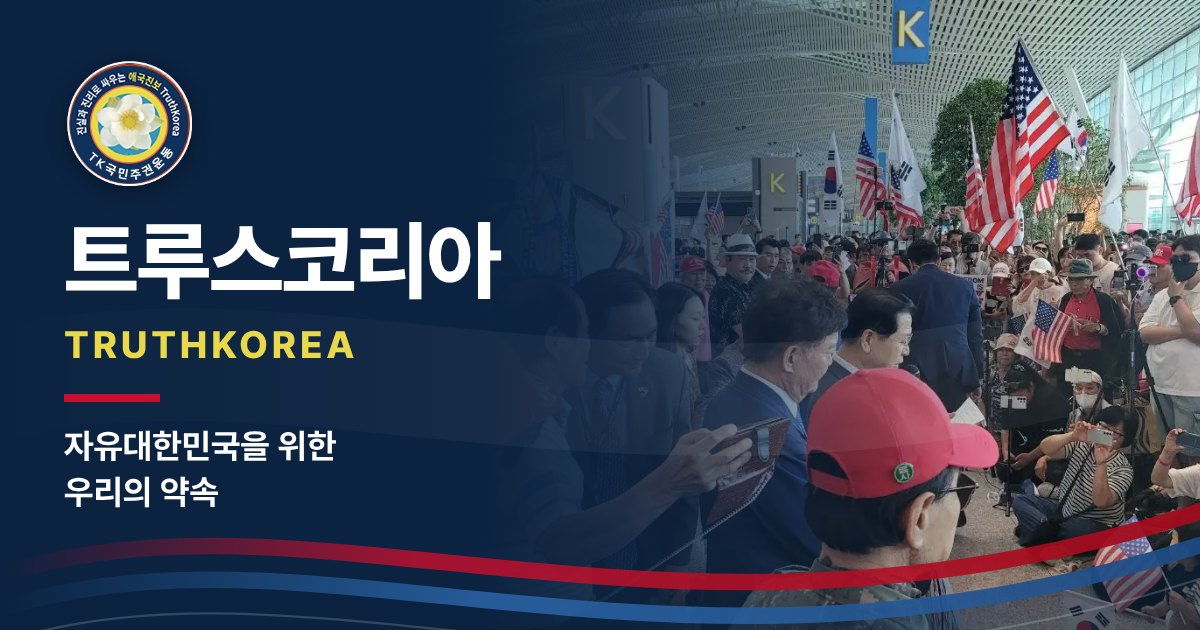
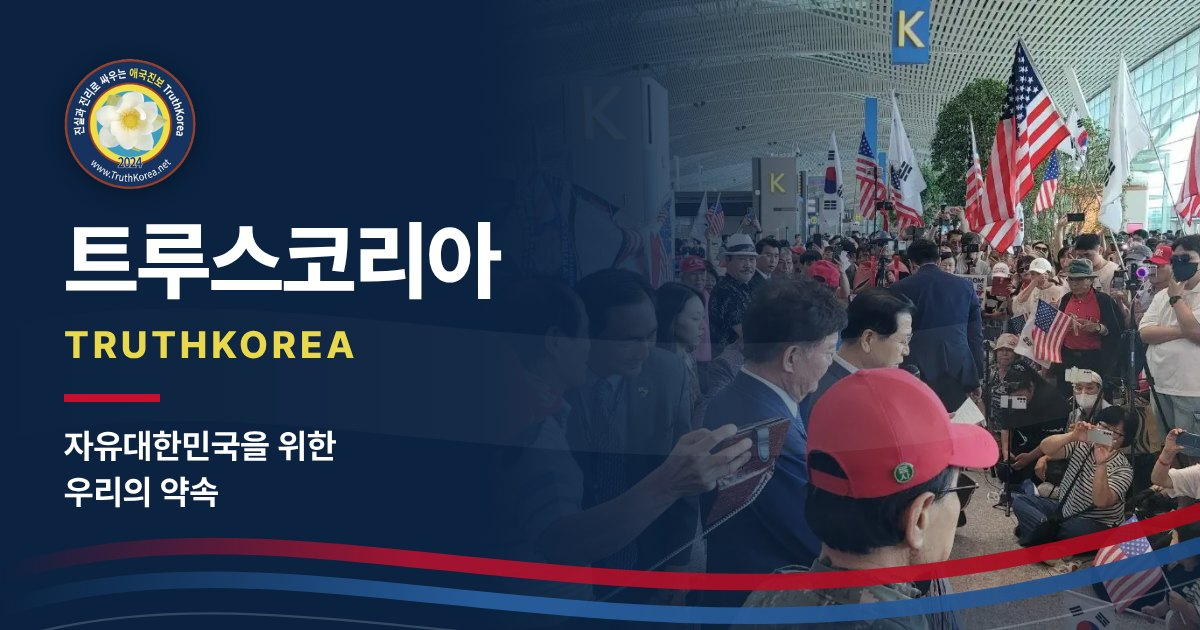
WIP: brand cleanup verification in progress
Claude-Session: https://claude.ai/code/session_01Lt8xdpggSnrnMYbTka5C8f

Changed region(s): [[0.0308, 0.0905, 0.185, 0.3016]]

diff --git a/assets/css/site.css b/assets/css/site.css
@@ -899,8 +899,9 @@ html:not(.js) .skel { display: none; }
 /* 처음 화면 머리말: 단체 영문 이름 (남색 위 밝은 글자) */
 .hero__eyebrow { margin: 0 0 6px; font-size: 1.0625rem; font-weight: 800; line-height: 1.3; letter-spacing: .14em; color: var(--on-navy-2); }
 .hero__lead { margin: 0 0 20px; font-size: var(--fs-body); line-height: 1.7; color: var(--on-navy-2); }
-/* 폰: 작은 빨강·파랑 막대는 사진 가장자리에서 슬라이드 점처럼 보여 숨기되, 자리는 남겨 표어가 사진의 밝은 부분에 걸리지 않게 합니다 */
-@media (max-width: 599.98px) { .hero__bar { visibility: hidden; } }
+/* 폰: 작은 빨강·파랑 막대는 사진 가장자리에서 슬라이드 점처럼 보여 빼고, 그 자리에 머리말(TRUTHKOREA)을 둡니다.
+   머리말이 막대 자리를 차지하므로 제목은 전처럼 사진의 밝은 부분에 걸리지 않습니다 */
+@media (max-width: 599.98px) { .hero__bar { display: none; } }
 .hero-tiles {
   list-style: none;
   margin: 0;

diff --git a/about.html b/about.html
@@ -85,7 +85,7 @@
   <div class="section section--paper vision-intro">
     <div class="container">
       <div class="intro-card" id="vision">
-        <img class="intro-card__emblem" src="assets/img/brand/emblem-200.webp" width="200" height="200" alt="트루스코리아 상징: 가운데 목련꽃 둘레에 ‘진실과 진리로 싸우는 애국진보 TruthKorea’라고 쓰여 있습니다.">
+        <img class="intro-card__emblem" src="assets/img/brand/emblem-200.webp" width="200" height="200" alt="트루스코리아 상징: 가운데 목련꽃 둘레에 ‘진실과 진리로 싸우는 애국진보 TruthKorea’, ‘2024’, ‘www.TruthKorea.net’이라고 쓰여 있습니다.">
         <div class="intro-card__text">
           <p class="intro-card__display" lang="ko"><span class="t-red" lang="en">TRUTH KOREA</span> <span class="t-navy">트루스코리아</span></p>
           <p class="intro-card__kicker">비전선언문</p>

diff --git a/CONTENT-TODO.md b/CONTENT-TODO.md
@@ -32,8 +32,8 @@
 | [ ] | 서명한 사람 수 보이기 | Supabase를 연결하면 처음 화면 서명 띠와 서명 완료 화면에 ‘지금까지 N명이 서명하셨습니다’가 나옵니다(1명 이상일 때). | 숫자를 보일지. 숨기려면 `index.html`의 `data-sign-count` 줄과 `sign.html`의 `sign-done-count` 줄을 지웁니다. |
 | [ ] | 사는 곳 ‘해외’ | 사는 곳(선택) 목록은 17개 시·도와 **해외**입니다(해외 동포 서명용). | ‘해외’를 둘지. 바꾸면 `sign.html`과 `supabase/migrations/0002_signatures.sql`의 목록을 함께 고칩니다. |
 | [ ] | 옛 서명 사이트·설문지 | 옛 컴퓨터 화면은 `truthkorea.net`, 옛 휴대전화 화면은 구글 설문지로 연결되어 있었습니다. 새 사이트는 모두 이 홈페이지의 서명운동 화면으로 바꾸었고, 두 곳으로 가는 링크는 넣지 않았습니다. 그곳에 이미 모인 서명은 이 홈페이지 명단에 없습니다. | 옛 서명(설문지 응답 등)을 따로 보관·합산할지. |
-| [x] | 단체 이름 표기 | 단체 요청(2026년 10월)에 따라 이름은 **트루스코리아**(영문 **TRUTHKOREA**)로만 씁니다: 머리글 ‘트루스코리아 / TRUTHKOREA’, 바닥글 명칭 ‘트루스코리아 (TRUTHKOREA)’, ‘© TRUTHKOREA’, 쪽 제목·설명·검색어(‘트루스코리아, truthkorea’)·카카오톡 미리보기·그림 설명도 같습니다. 옛 사이트에서 쓰던 다른 이름과 표어는 새 사이트 화면 어디에도 쓰지 않고, 처음 화면 제목은 옛 비전선언문의 글 ‘자유대한민국을 위한 우리의 약속’을 그대로 씁니다. 후원하기 쪽 글에서도 단체 이름만 ‘트루스코리아’로 바꿨습니다(‘트루스코리아는 영화, 언론, 음악 등…’, ‘TruthKorea MISSION’). | 정해짐. 아래 두 줄(상징 그림, 옮긴 옛 글)만 남았습니다. |
-| [ ] | 상징 그림 속 옛 이름 | 단체 상징(목련꽃 둥근 그림)의 아래쪽 둘레에 옛 이름 글자가 그림으로 들어 있습니다. 이 상징은 머리글·바닥글·처음 화면 단체 소개 띠·단체 소개 쪽·404 쪽·카카오톡 미리보기 그림에 나오고, 즐겨찾기 아이콘(`assets/img/favicon-32.png`, `favicon-192.png`, `apple-touch-icon.png`)과 `assets/img/brand/emblem-112.png`, `emblem-200.webp`, `emblem.png`, `logo.jpg`도 같은 그림입니다. 단체의 상징이라 고치거나 빼지 않았고, 그림 설명(alt)에서만 그 글자를 뺐습니다. | 상징을 그대로 쓸지, 아래쪽 글자를 바꾼 새 상징 그림을 주실지(주시면 크기별 파일과 미리보기 그림을 다시 만듭니다). |
+| [x] | 단체 이름 표기 | 단체 요청(2026년 10월)에 따라 이름은 **트루스코리아**(영문 **TRUTHKOREA**)로만 씁니다: 머리글 ‘트루스코리아 / TRUTHKOREA’, 바닥글 명칭 ‘트루스코리아 (TRUTHKOREA)’, ‘© TRUTHKOREA’, 쪽 제목·설명·검색어(‘트루스코리아, truthkorea’)·카카오톡 미리보기·그림 설명도 같습니다. 옛 사이트에서 쓰던 다른 이름과 표어는 새 사이트 화면 어디에도 쓰지 않고, 처음 화면 제목은 옛 비전선언문의 글 ‘자유대한민국을 위한 우리의 약속’을 그대로 씁니다. 후원하기 쪽 글에서도 단체 이름만 ‘트루스코리아’로 바꿨습니다(‘트루스코리아는 영화, 언론, 음악 등…’, ‘TruthKorea MISSION’). | 정해짐. 아래 ‘옮긴 옛 글 속 다른 이름’ 줄만 남았습니다. |
+| [x] | 상징 그림 (새 로고) | 단체가 준 새 로고(목련꽃 둥근 그림, 둘레 글자 ‘진실과 진리로 싸우는 애국진보 TruthKorea’, ‘2024’, ‘www.TruthKorea.net’)로 `assets/img/brand/emblem-112.png`, `emblem-200.webp`, `emblem.png`, 즐겨찾기 아이콘(`favicon.ico`, `assets/img/favicon-32.png`, `favicon-192.png`, `apple-touch-icon.png`)을 바꿨고, 카카오톡 미리보기 그림도 새 로고로 다시 만들었습니다. 쓰지 않는 옛 그림 `assets/img/brand/logo.jpg`(옛 상징이 작게 들어 있음)는 화면에서 불러오지 않습니다. | 정해짐. `logo.jpg`는 지워도 됩니다. |
 | [ ] | 옮긴 옛 글 속 다른 이름 | 옛 글은 글자 하나 바꾸지 않고 옮겼기 때문에, 글 2개에 옛 이름 계열의 재단 이름이 남아 있습니다. ‘트루스데일리’ 창간 기사(`legacy-truth-14`): 제목, 본문 4곳, 사진 설명과 그림 설명, 사진 `truth-14-1.jpg`(목록 그림 `truth-14-1-thumb.jpg` 포함)의 현수막 글자. 긴급 기자회견 기사(`legacy-TK_NEWS-19`): 본문 1곳(공동 주최 단체 이름), 사진 `TK_NEWS-19-1.jpg`(목록 그림 `TK_NEWS-19-1-thumb.jpg` 포함) 현수막 아래 줄, `TK_NEWS-19-8.jpg` 현수막(일부 가려짐). 두 글은 뉴스·영상 목록에 나오고, 긴급 기자회견 기사는 처음 화면 ‘TK 뉴스’에도 나옵니다. 같은 내용이 `data/posts.json`과 `supabase/seed.sql`에 있습니다. | 그대로 둘지(기사와 다른 단체의 이름이므로), 글을 숨길지(관리자 화면에서 ‘숨김’), 글자를 고칠지. |
 | [ ] | 사진 두 장 바꿈 | 이름 정리에 맞춰 ① 처음 화면 ‘단체 소개’ 띠와 단체 소개 쪽 ‘단체 정보’에 있던 트루스데일리 창간식 단체 사진(현수막에 옛 이름 계열의 재단 이름이 크게 보이고, 사람 머리를 자르지 않고는 글자만 잘라 낼 수 없음)을 거리 집회 사진(긴급 기자회견 기사의 사진)으로 바꾸고 그 아래 ‘관련 글 보기’ 링크를 뺐습니다. ② 후원하기 쪽 3.5% 그림은 아래쪽 이름 글자 줄 위에서 잘라 윗부분(‘For 자유민주주의 수호’와 세 인물 사진)만 씁니다. 옛 카카오톡 공유 그림과 스티커 그림 5장(쓰지 않던 파일, 이름 글자가 들어 있음)은 저장소에서 지웠습니다. | 이대로 좋은지. 창간식 사진을 다시 쓰려면 현수막 글자가 보이지 않는 사진을 보내 주세요. |
 | [ ] | 전화 받는 시간 | 옛 사이트에 없어서 싣지 않았습니다. | 알리고 싶으면 요일과 시간. |
@@ -43,7 +43,7 @@
 | [ ] | 관련 사이트 띠 | 옛 처음 화면 아래의 다른 단체·언론 로고(국민일보, CTS 기독교TV, 트루스데일리, GOOD TV, 한국교회연합 CCIK)를 처음 화면 맨 아래 ‘관련 사이트’에 다시 넣었습니다(움직이지 않는 로고 칸). | 이 다섯 곳을 계속 보일지. |
 | [ ] | ‘이메일 무단수집거부’ 글 | 옛 사이트에 있던 안내 글입니다. 새 사이트에는 넣지 않았습니다. 옛 이용약관·개인정보 처리방침은 쇼핑몰·회원 가입용 견본이어서 옮기지 않았습니다. | 필요하면 넣을 글. |
 | [ ] | 개인정보 처리방침 | 새 서명운동 화면(`sign.html`)은 **이름, 휴대폰 번호, 사는 곳(선택), 손글씨 서명(선택)**을 받습니다(서명 화면에 수집 항목·목적·보유 기간·동의하지 않을 권리 안내와 동의 칸이 있음). 이런 개인정보를 받는 단체는 보통 홈페이지에 ‘개인정보 처리방침’을 따로 공개합니다. 방침 글은 단체의 사실(책임자, 보관 장소 등)이 필요해 지어 넣지 않았습니다. | 개인정보 처리방침 쪽을 둘지. 둔다면 개인정보 보호책임자(이름·연락처), 개인정보 관련 요청(열람·삭제)을 받을 곳, 저장 서비스(Supabase) 위탁 사실 등을 알려 주세요. |
-| [ ] | 카카오톡 미리보기 그림 | 새로 만든 그림 `assets/img/brand/og-image-1200.jpg`(1200×630: 공항 집회 사진, 상징, ‘트루스코리아 / TRUTHKOREA’, 옛 비전선언문의 글 ‘자유대한민국을 위한 우리의 약속’)를 씁니다. 상징 둘레의 옛 이름 글자가 작게 보입니다(위 ‘상징 그림 속 옛 이름’ 줄). | 이 그림으로 좋은지. |
+| [ ] | 카카오톡 미리보기 그림 | 새로 만든 그림 `assets/img/brand/og-image-1200.jpg`(1200×630: 공항 집회 사진, 새 로고, ‘트루스코리아 / TRUTHKOREA’, 옛 비전선언문의 글 ‘자유대한민국을 위한 우리의 약속’)를 씁니다. | 이 그림으로 좋은지. |
 | [ ] | 처음 화면에 나오는 글 | 처음 화면에는 종합뉴스·TK 뉴스·행사 최신 3개가 큰 그림으로 나옵니다. 옛 영상의 미리 보기 그림에는 자극적인 큰 글자(예: ‘이재명 재산 몰수’)가 들어 있습니다. | 처음 화면에 보일 글을 고를지(관리자 화면에서 글마다 ‘처음 화면에도 보이기’를 끄면 빠집니다). |
 | [ ] | 사진 사용 권리 (새 디자인) | 새 디자인은 옛 사이트의 사진을 크게 씁니다: 공항 집회 사진(처음 화면·단체 소개, **얼굴이 알아보이는 분들이 있음**), 문화전쟁 공연 사진(후원 띠·영화 후원 칸), 하늘 사진(종합뉴스), 거리 집회 사진(행사·연락처 머리 띠, 처음 화면 ‘단체 소개’ 띠, 단체 소개 쪽 ‘단체 정보’), 지구본 그림(뉴스). | 이 사진들을 써도 되는지(촬영자·초상권). 바꿀 사진이 있으면 같은 크기로 보내 주세요. |
 | [ ] | 사진 사용 | 옮긴 글의 사진 일부는 ‘트루스데일리’ 표시가 있는 기사 사진이고, 행사 포스터 네 장은 다른 단체가 만든 것입니다. 단체가 직접 올린 글이므로 그대로 옮겼습니다. ‘[정부영칼럼] …’ 글의 목록 그림은 그 글에 실린 인물 사진을 남색 바탕에 놓고 ‘정부영 칼럼’이라고 써서 새로 만들었습니다(같은 영상을 쓰는 종합뉴스 글과 목록 그림이 똑같아 보이지 않게). | 사용에 문제가 없는지. 칼럼 목록 그림이 괜찮은지. |
